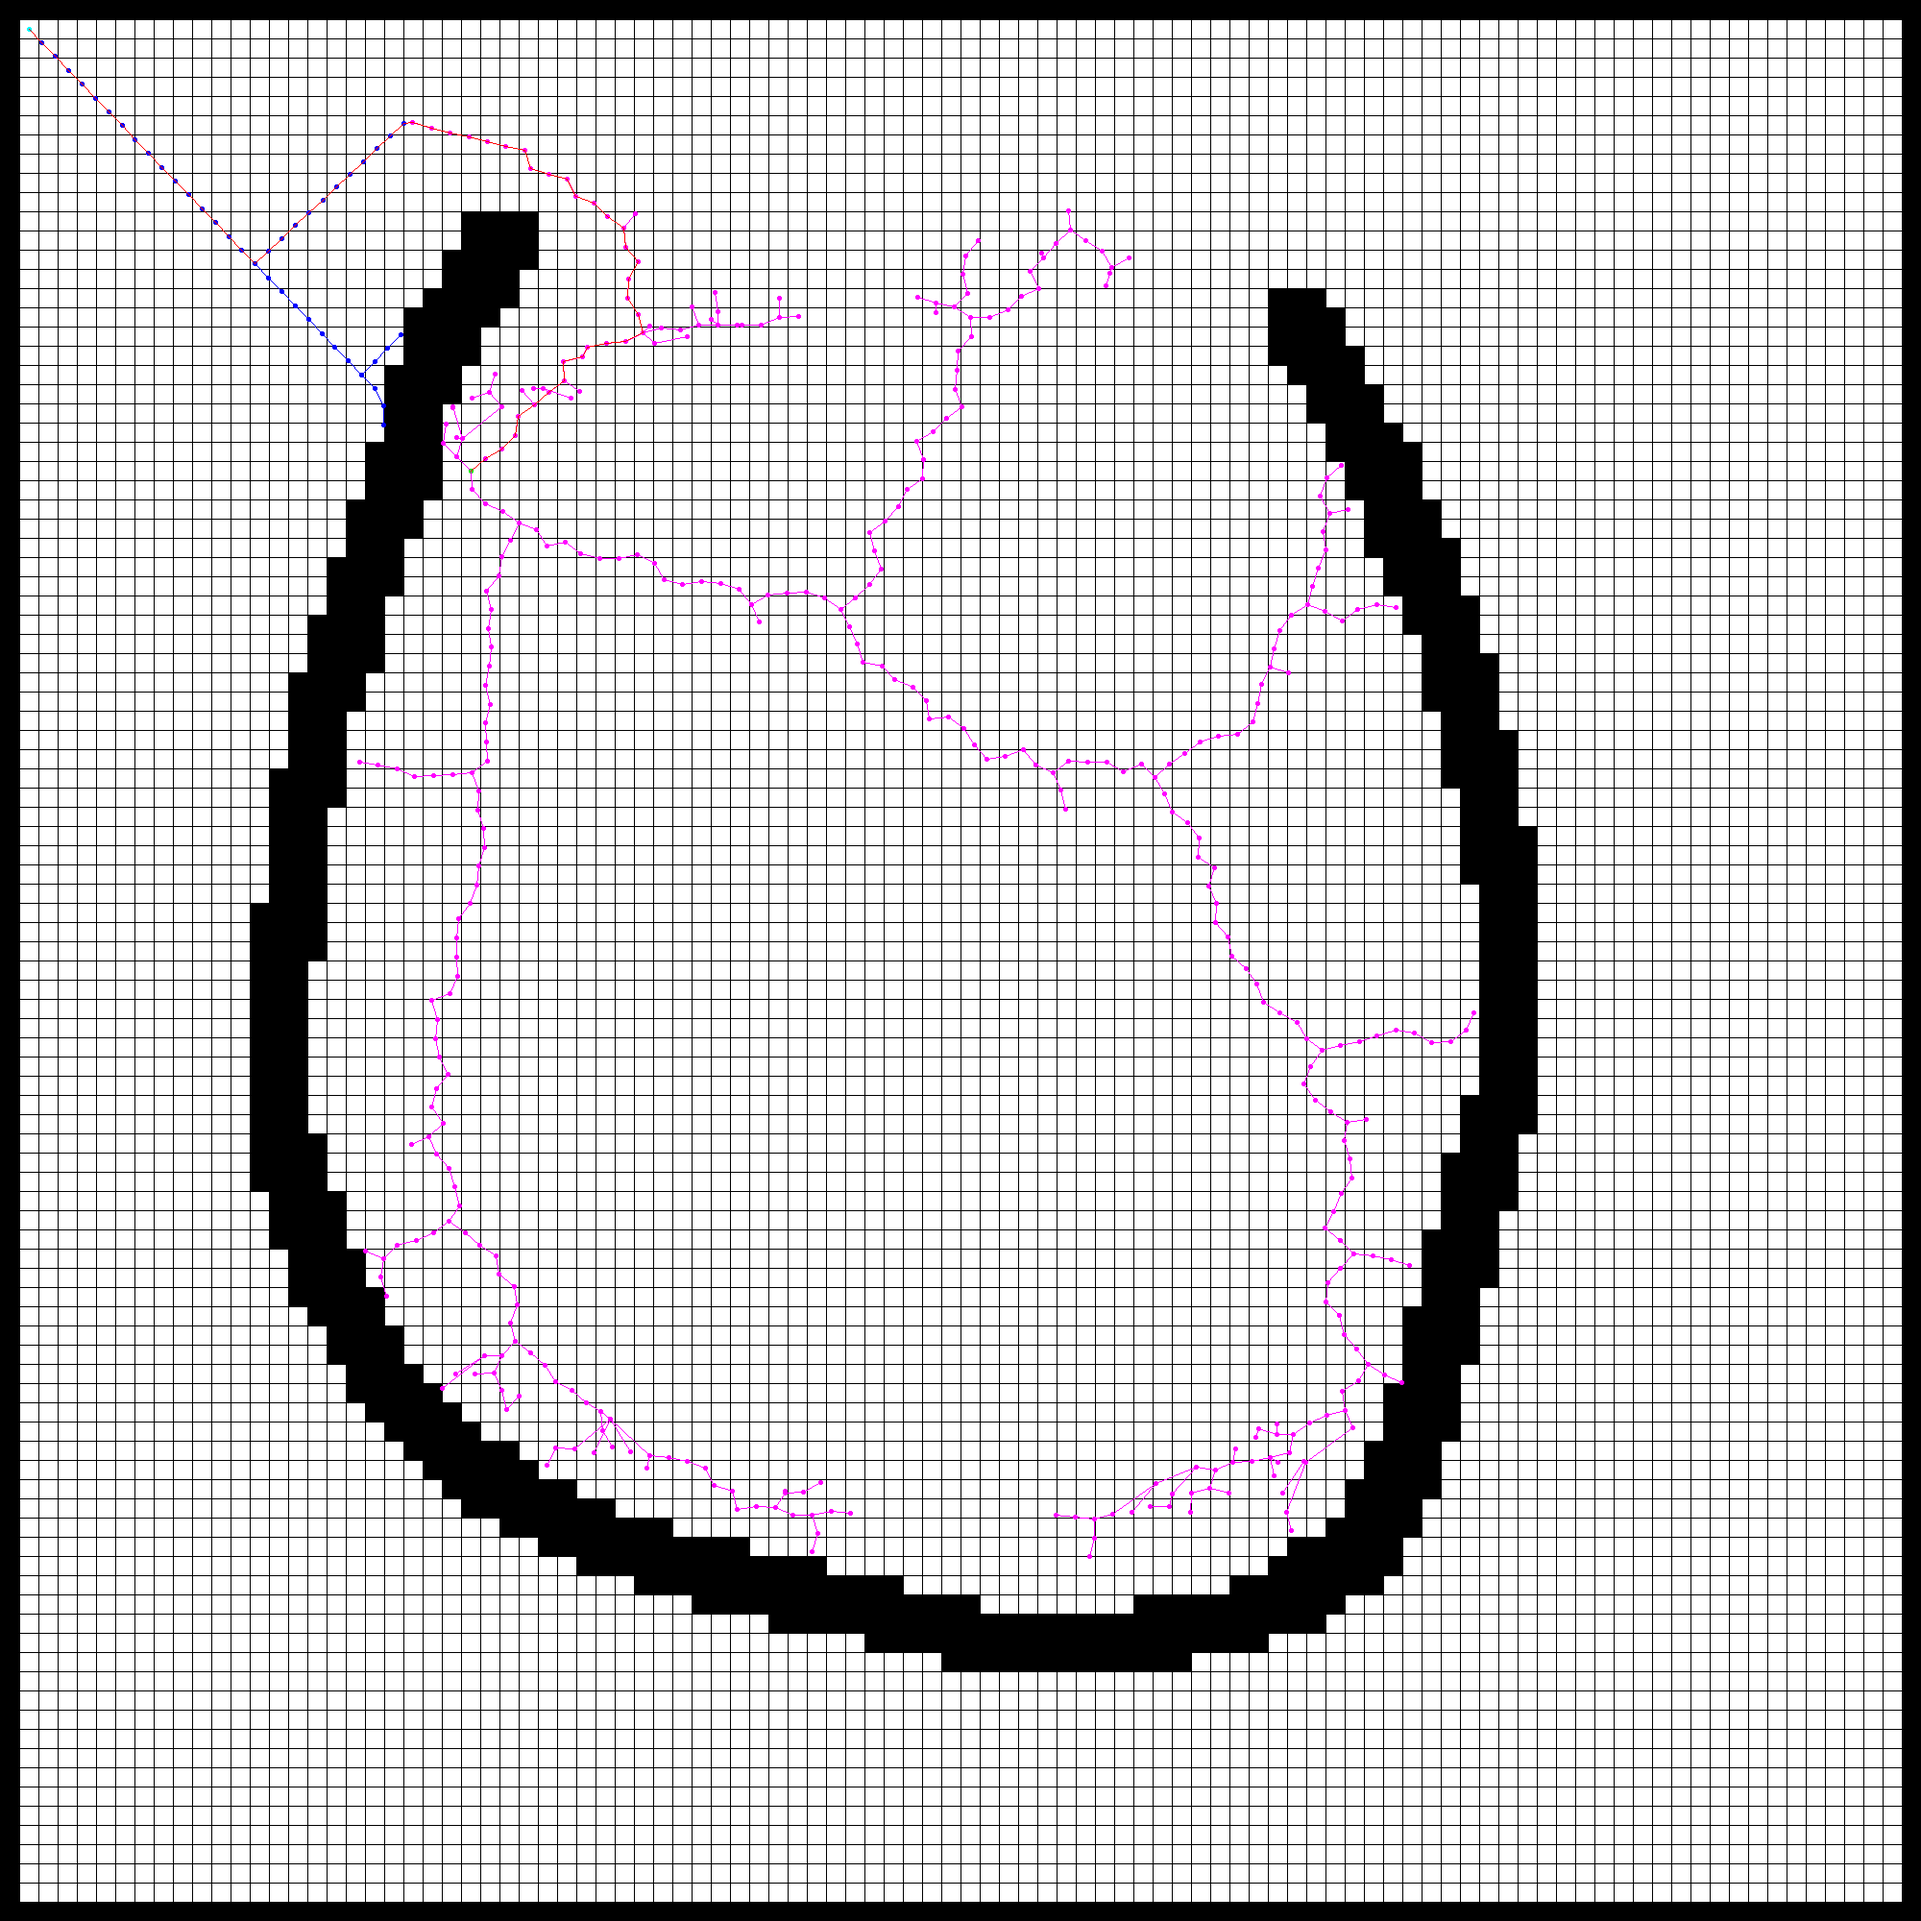
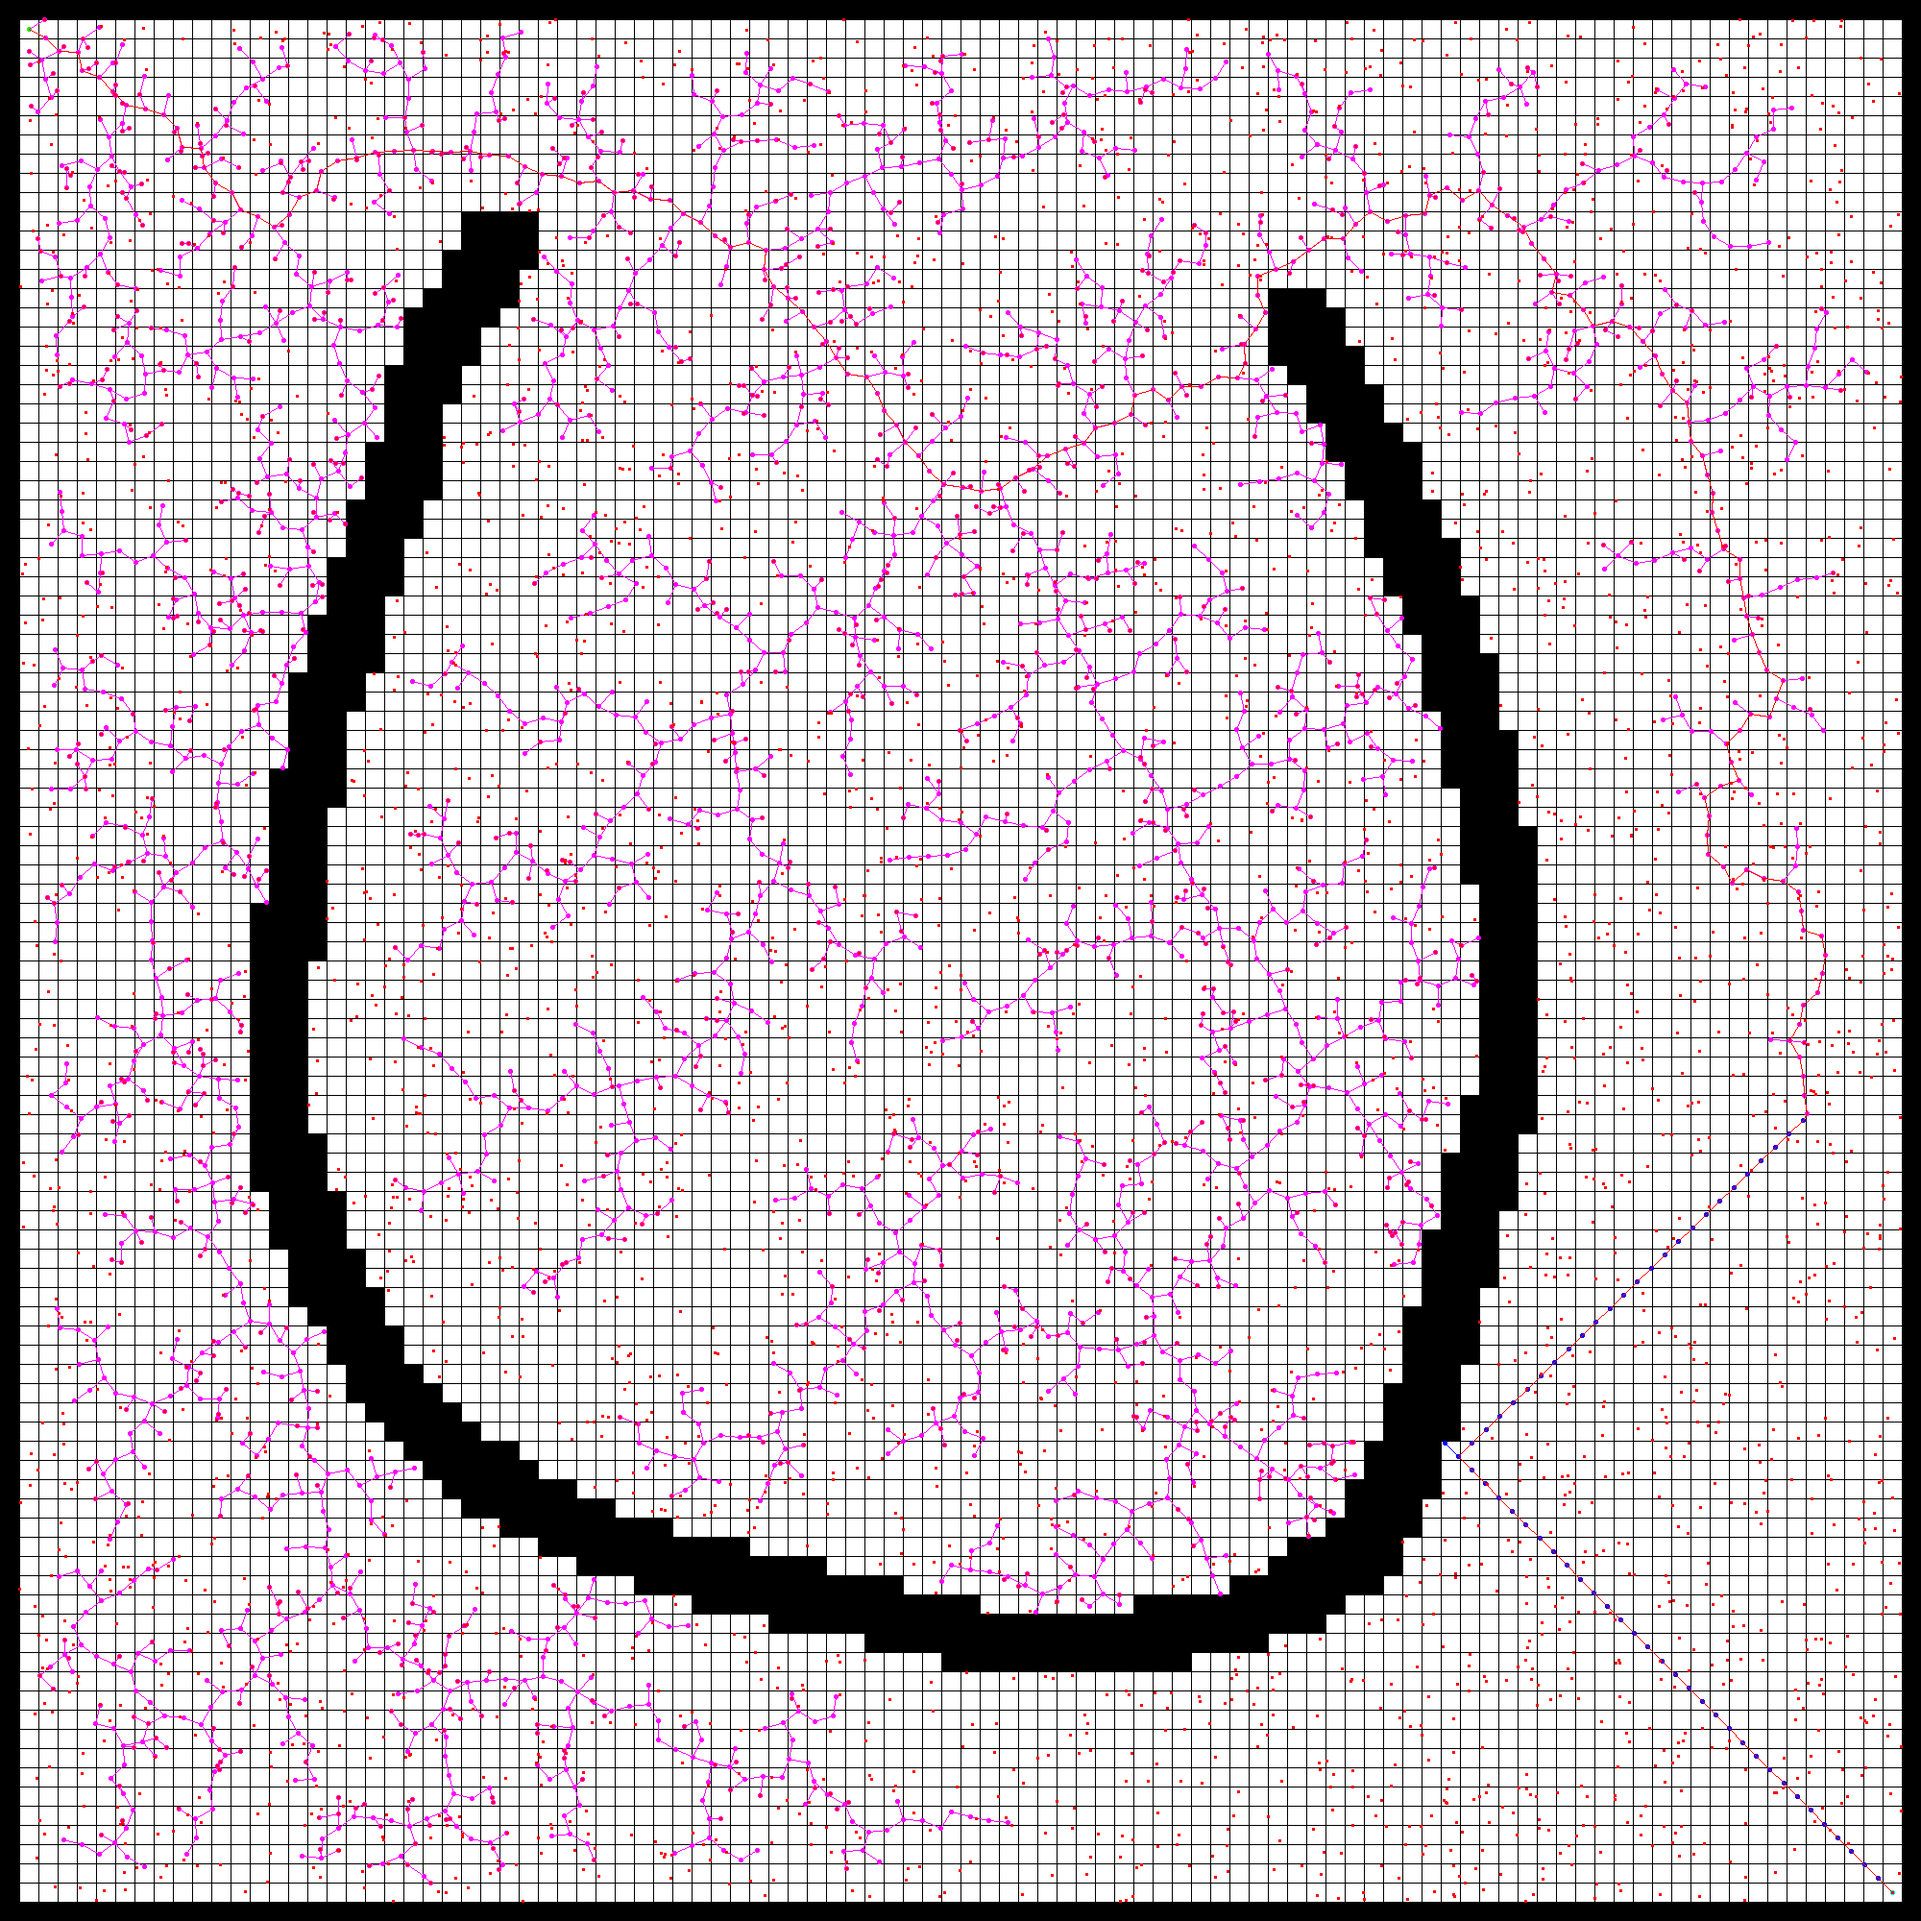
Fixed sampling distribution and free cell criteria

diff --git a/rrt.py b/rrt.py
@@ -9,10 +9,10 @@ import kdtree
 class Node:
     parent = None
     cost = 0
+
     def __init__(self, x, y, parent):
         self.coords = (x, y)
         self.parent = parent
-        self.cost = 0
 
     def __len__(self):
         return len(self.coords)
@@ -33,6 +33,7 @@ class Node:
 class RRT:
     nodes_start_tree = kdtree.create(dimensions=2)
     nodes_goal_tree = kdtree.create(dimensions=2)
+    samples = []
 
     def __init__(self, path_to_map, use_rrt, coords_start, coords_end, step_size):
         self.image = Image.open(path_to_map)
@@ -68,7 +69,7 @@ class RRT:
         while not collision_free:
             point_x = random.random() * x_max
             point_y = random.random() * y_max
-            if self.map[int(point_x),int(point_y)] == 0:
+            if self.map[int(point_y),int(point_x)] > 100:
                 collision_free = True
                 return (point_x, point_y)
             # else:
@@ -94,10 +95,12 @@ class RRT:
             closer_node.cost = cost_new
 
             nodes.add(closer_node)
+            print("Added node " + str(closer_node.coords))
             self.node_count += 1
-            self.rewire(nodes, closer_node)
-            if not nodes.is_balanced and self.node_count % 20 == 0:
-                nodes.rebalance()
+            # if not self.use_rrt:
+            # self.rewire(nodes, closer_node)
+            # if not nodes.is_balanced and self.node_count % 20 == 0:
+            #     nodes.rebalance()
         return closer_node
 
     def do_connect(self, nodes, origin_node, target_node):
@@ -117,11 +120,13 @@ class RRT:
                 closer_node.cost = cost_new
 
                 nodes.add(closer_node)
-                self.node_count += 1
+                print("Added node " + str(closer_node.coords))
 
+                self.node_count += 1
+                self.rewire(nodes, closer_node)
                 current_node = closer_node
-                if not nodes.is_balanced and self.node_count % 20 == 0:
-                    nodes.rebalance()
+                # if not nodes.is_balanced and self.node_count % 20 == 0:
+                #     nodes.rebalance()
             else:
                 # print "Hit something, unfortunately"
                 return False, None, None
@@ -137,25 +142,16 @@ class RRT:
         return NotImplemented
 
     def get_nearest_node(self, nodes, node_origin):
-        return nodes.search_nn(node_origin)[0].data
-        # distance_min = 10000
-        # nearest = None
-        # for node in nodes:
-        #     distance = self.dist_euclidean((node[0], node[1]), point)
-        #     if distance < distance_min:
-        #         nearest = node
-        #         distance_min = distance
-        # return nearest
+        time_start = time.time()
+        nearest = nodes.search_nn(node_origin)[0].data
+        print("Nearest node time: " + str(time.time() - time_start))
+        return nearest
 
     def get_near_nodes(self, nodes, point):
-        return nodes.search_knn(point, 10)
-
-        # distance = 2
-        # near_nodes = []
-        # for node in nodes:
-        #     if self.dist_euclidean(point, (node[0], node[1])) < distance:
-        #         near_nodes.append(node)
-        # return near_nodes
+        time_start = time.time()
+        nearest = nodes.search_knn(point, 20)
+        print("Near nodes time: " + str(time.time() - time_start))
+        return nearest
 
     def check_if_obstacle_free(self, point_a, point_b):
         x_min = point_a[0]
@@ -194,10 +190,7 @@ class RRT:
                 and node.cost + self.dist_euclidean(node.coords, new_node.coords) \
                     < new_node.cost + self.dist_euclidean(nn.coords, new_node.coords):
                 nn = node
-        # new_node.cost = nn.cost + self.dist_euclidean((nn.x, nn.y), (new_node.x, new_node.y))
         return nn, nn.cost + self.step_size
-        # new_node.set_parent(nn)
-        # new_node.cost = new_node.parent.cost + self.step_size
 
     def draw_tree(self):
         scale_factor = 20
@@ -235,9 +228,11 @@ class RRT:
             draw.line([(self.path_total[i][0] * scale_factor, self.path_total[i][1] * scale_factor),
                        (self.path_total[i+1][0] * scale_factor, self.path_total[i+1][1] * scale_factor)], (255, 0, 0))
 
+        for point in self.samples:
+            draw.ellipse([(point[0]* scale_factor - 1, point[1] * scale_factor - 1),
+                          (point[0] * scale_factor + 1, point[1] * scale_factor + 1)], fill=(255, 0, 0),
+                         outline=(255, 0, 0))
 
-        # draw.line((0, 0) + image_big.size, fill=128)
-        # draw.line((0, image_big.size[1], image_big.size[0], 0), fill=128)
         del draw
         image_big.save("test.png")
 
@@ -257,6 +252,7 @@ class RRT:
 
         while self.node_count < self.num_nodes:
             point_random = self.sample()
+            self.samples.append(point_random)
 
             nearest = self.get_nearest_node(self.nodes_start_tree, point_random)
             new_node = self.do_extend(self.nodes_start_tree, nearest, point_random)
@@ -276,6 +272,8 @@ class RRT:
                     self.path_total = path_total
                     self.success = True
                     break
+            else:
+                print("Extend failed")
         elapsed = time.time() - start
         return elapsed, self.cost_total
 
@@ -292,10 +290,16 @@ class RRT:
 if __name__ == "__main__":
     random.seed()
 
-    solver = RRT("U_turn.gif", False, (24.5, 24.5), (1.5, 1.5), 1.0)
-    time_elapsed, cost = solver.do_RRT(1000)
-    print("Time elapsed: " + str(time_elapsed) + " s\nTotal Cost: " + str(cost))
-    solver.draw_tree()
+    solver = RRT("U_turn.gif", False, (1.5, 1.5), (98.5, 98.5), 1.0)
+    try:
+        time_elapsed, cost = solver.do_RRT(5000)
+        solver.draw_tree()
+        print("Time elapsed: " + str(time_elapsed) + " s\nTotal Cost: " + str(cost))
+    except KeyboardInterrupt:
+        solver.draw_tree()
+
+    # print("Time elapsed: " + str(time_elapsed) + " s\nTotal Cost: " + str(cost))
+    # solver.draw_tree()
 
     # print("Time elapsed: " + str(elapsed) + " s")
     # print(solver.find_supercover_squares((0.0, 0.5), (1, 1)))
